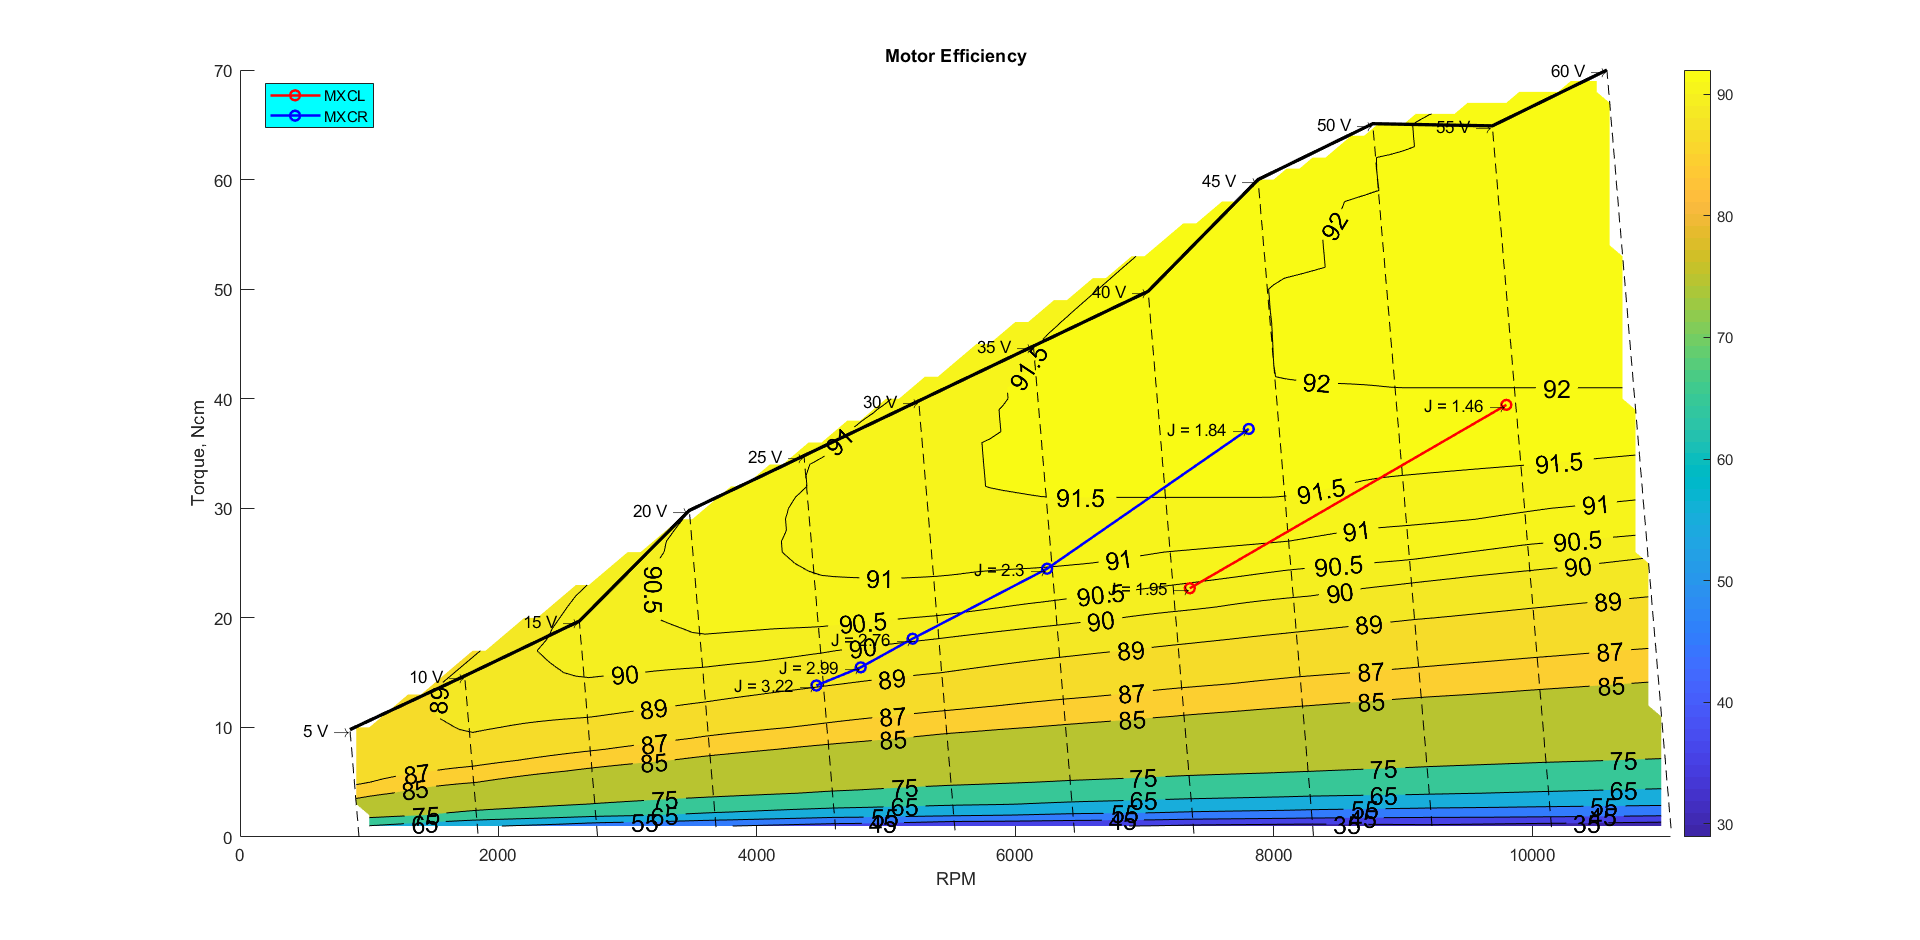
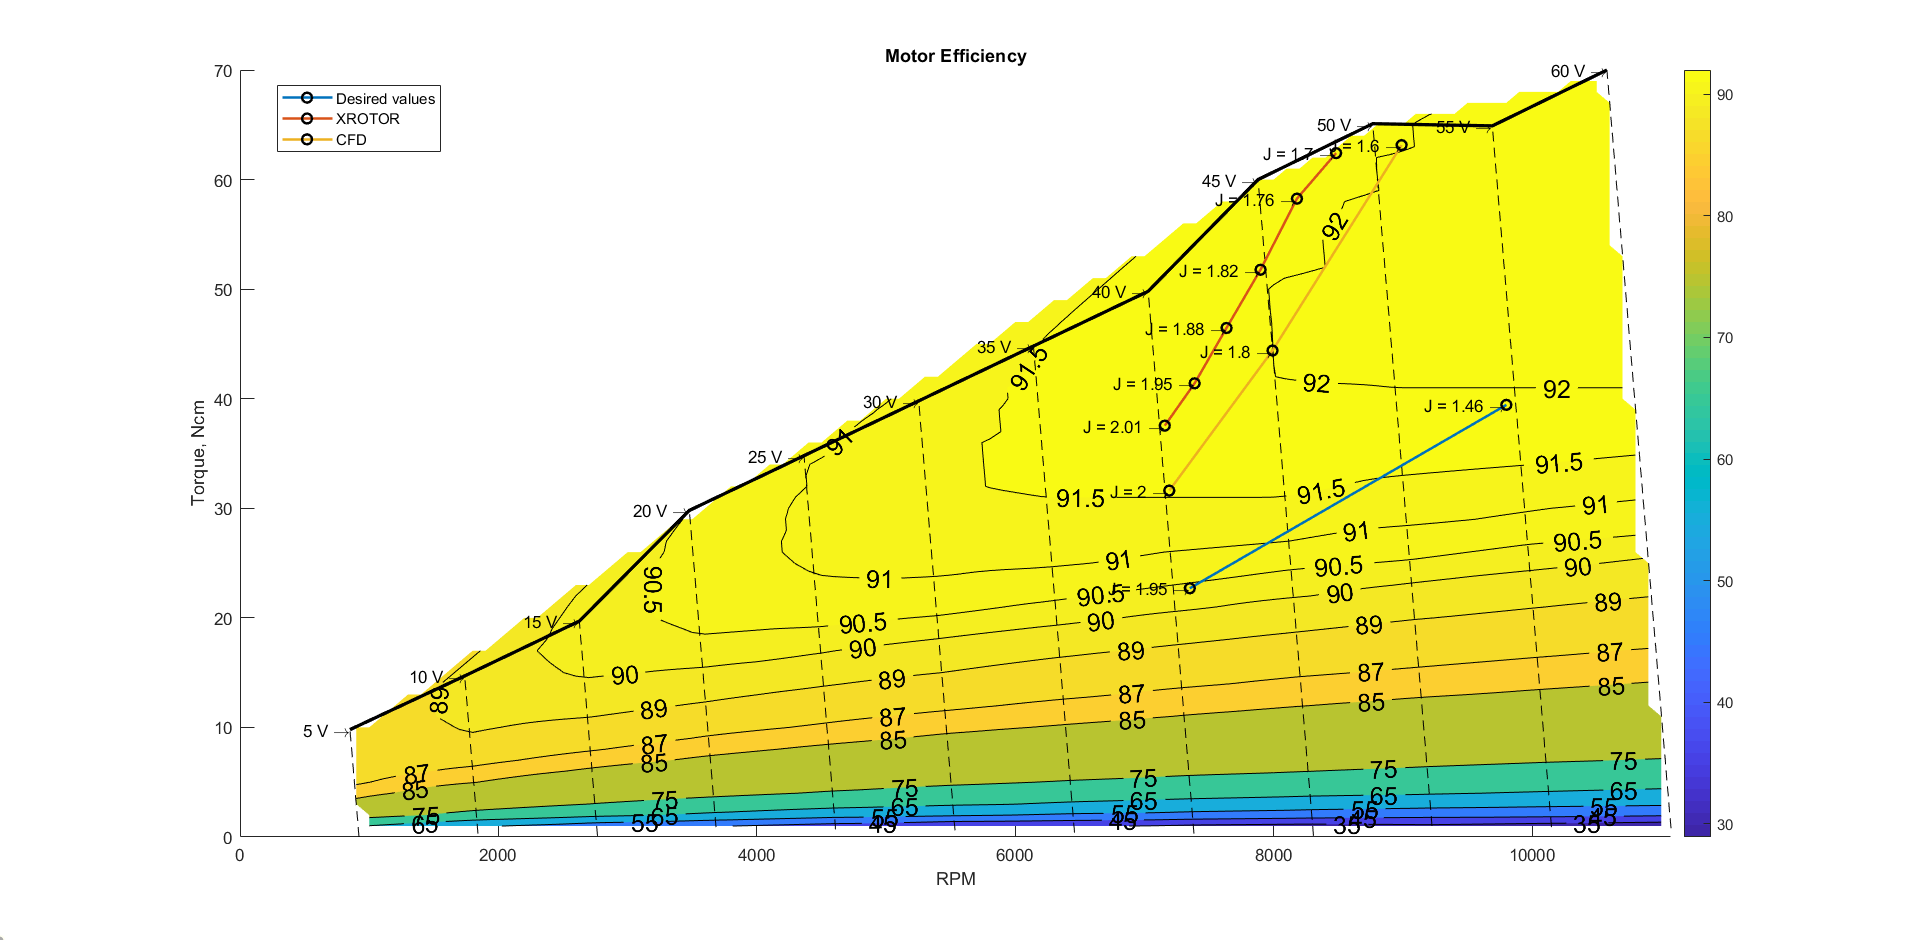
Generalized for any number of conditions

diff --git a/performanceCharts.m b/performanceCharts.m
@@ -1,18 +1,32 @@
 % Calculate the Lehner 2280-40 electric motor map from performance data
 % issued by the manufacturer. Plot propeller operating points on the map.
-% Version 4. Same as Version 3, but with more charts.
+% Version 5. Define and compare as many propeller operating conditions as
+% you want.
 close all; clearvars; clc
 
 %% User-provided data
-% Operative points: J, Shaft Power (W), RPM
-MXCL = [1.46    403   9801
-        1.95    174   7351];
+conditionLabels = {'Desired values','XROTOR','CFD'};
 
-MXCR = [1.84	300   7807
-        2.30	159   6246
-        2.76	96    5205
-        2.99	77    4804
-        3.22	63    4461];
+% Operative points: J, Shaft Power (W), RPM
+condition{1} = [1.46    403   9801
+                1.95    174   7351];
+
+condition{2} = [1.38	1329	10411
+                1.44	1116	9958
+                1.51	941     9543
+                1.57	798     9162
+                1.63	679     8809
+                1.70	580     8483
+                1.76	498     8180
+                1.82	428     7898
+                1.88	368     7635
+                1.95	318     7388
+                2.01	274     7157];
+
+condition{3} = [1.4     1013	10274
+                1.6     593     8990
+                1.8     367     7991
+                2       236     7192];
 
 %% Lehner performance data
 V1 = csvread('data\V5.csv');
@@ -29,8 +43,14 @@ V11 = csvread('data\V55.csv');
 V12 = csvread('data\V60.csv');
 
 scale = 1000; % Scale factor over RPM for better interpolation
-MXCL(:,3) = MXCL(:,3) ./ scale;
-MXCR(:,3) = MXCR(:,3) ./ scale;
+for i = 1:numel(condition)
+    % create a temporary variable to manipulate part of cell data
+    tempMat =  condition{i};
+    tempMat(:,3) = tempMat(:,3) ./ scale;
+    condition{i} = tempMat;
+end
+% MXCL(:,3) = MXCL(:,3) ./ scale;
+% MXCR(:,3) = MXCR(:,3) ./ scale;
 
 % Current	Input power     RPM     Momentum	Output power	Efficiency
 % A         W               /min	Ncm         W	            %
@@ -66,8 +86,14 @@ limEta = [V1(end,6); V2(end,6); V3(end,6); V4(end,6); V5(end,6); V6(end,6); V7(e
 za = griddata(r,c,s,xa,ya);
 
 % Interpolate data to caclculate current drawn at propeller operating points
-MXCL(:,4) = griddata(s,r,c,MXCL(:,2),MXCL(:,3));
-MXCR(:,4) = griddata(s,r,c,MXCR(:,2),MXCR(:,3));
+for i = 1:numel(condition)
+    % create a temporary variable to access cell data
+    tempMat =  condition{i};
+    tempMat(:,4) = griddata(s,r,c,tempMat(:,2),tempMat(:,3));
+    condition{i} = tempMat;
+end
+% MXCL(:,4) = griddata(s,r,c,MXCL(:,2),MXCL(:,3));
+% MXCR(:,4) = griddata(s,r,c,MXCR(:,2),MXCR(:,3));
 
 % Plot section
 figure
@@ -86,12 +112,20 @@ plot3(V10(:,3)./scale,V10(:,1),V10(:,5),'k--')
 plot3(V11(:,3)./scale,V11(:,1),V11(:,5),'k--')
 plot3(V12(:,3)./scale,V12(:,1),V12(:,5),'k--')
 plot3(limRPM,limCur,limPow,'k-','LineWidth',2)
-climb = plot3(MXCL(:,3),MXCL(:,4),MXCL(:,2)+20,'or-','LineWidth',1.5);
-cruise = plot3(MXCR(:,3),MXCR(:,4),MXCR(:,2)+20,'oy-','LineWidth',1.5);
-hold off, grid on, view(-20,30) 
+
+for i = 1:numel(condition)
+    % create a temporary variable to access part of cell data
+    tempMat =  condition{i};
+    conditionCurves{i} = plot3(tempMat(:,3),tempMat(:,4),tempMat(:,2)+20,...
+        'o-','LineWidth',1.5,'MarkerEdgeColor','black');
+end
+
+% climb = plot3(MXCL(:,3),MXCL(:,4),MXCL(:,2)+20,'or-','LineWidth',1.5);
+% cruise = plot3(MXCR(:,3),MXCR(:,4),MXCR(:,2)+20,'oy-','LineWidth',1.5);
+hold off, grid on, view(-20,30)
 xlabel('RPM'), ylabel('Current, A'), zlabel('Output power, W')
 colorbar
-legend([climb,cruise], 'MXCL', 'MXCR','Location','Best','Color','cyan')
+legend([conditionCurves{:}],conditionLabels,'Location','Best')
 
 % Annotations on surf
 text(V1(end,3)./scale,V1(end,1),V1(end,5),'5 V \rightarrow', 'HorizontalAlignment', 'right')
@@ -107,17 +141,22 @@ text(V10(end,3)./scale,V10(end,1),V10(end,5),'50 V \rightarrow', 'HorizontalAlig
 text(V11(end,3)./scale,V11(end,1),V11(end,5),'55 V \rightarrow', 'HorizontalAlignment', 'right')
 text(V12(end,3)./scale,V12(end,1),V12(end,5),'60 V \rightarrow', 'HorizontalAlignment', 'right')
 
-for i = 1:size(MXCL,1)
-    text(MXCL(i,3),MXCL(i,4),MXCL(i,2)+20,...
-        ['J = ',num2str(MXCL(i,1)), ' \rightarrow'], ...
-        'HorizontalAlignment','right')
+for i = 1:numel(condition)
+    tempMat =  condition{i};
+    
+    for j = 1:size(tempMat,1)
+        text(tempMat(j,3),tempMat(j,4),tempMat(j,2)+20,...
+            ['J = ',num2str(tempMat(j,1)), ' \rightarrow'], ...
+            'HorizontalAlignment','right')
+    end
+    
 end
 
-for i = 1:size(MXCR,1)
-    text(MXCR(i,3),MXCR(i,4),MXCR(i,2)+20,...
-        ['J = ',num2str(MXCR(i,1)), ' \rightarrow'], ...
-        'HorizontalAlignment','right')
-end
+% for i = 1:size(MXCR,1)
+%     text(MXCR(i,3),MXCR(i,4),MXCR(i,2)+20,...
+%         ['J = ',num2str(MXCR(i,1)), ' \rightarrow'], ...
+%         'HorizontalAlignment','right')
+% end
 
 % Scaling the RPM thick labels
 rpmLabel = xticklabels;
@@ -144,13 +183,21 @@ plot(V10(:,3)./scale,V10(:,1),'k--')
 plot(V11(:,3)./scale,V11(:,1),'k--')
 plot(V12(:,3)./scale,V12(:,1),'k--')
 plot(limRPM,limCur,'k-','LineWidth',2)
-climb = plot(MXCL(:,3),MXCL(:,4),'or-','LineWidth',1.5);
-cruise = plot(MXCR(:,3),MXCR(:,4),'oy-','LineWidth',1.5);
+
+for i = 1:numel(condition)
+    % create a temporary variable to access part of cell data
+    tempMat =  condition{i};
+    conditionCurves{i} = plot(tempMat(:,3),tempMat(:,4),...
+        'o-','LineWidth',1.5,'MarkerEdgeColor','black');
+end
+
+% climb = plot(MXCL(:,3),MXCL(:,4),'or-','LineWidth',1.5);
+% cruise = plot(MXCR(:,3),MXCR(:,4),'oy-','LineWidth',1.5);
 hold off
 clabel(C,H,'FontSize',15,'Color','white')
 xlabel('RPM'), ylabel('Current, A'), title('Output power contour, W')
 colorbar
-legend([climb,cruise], 'MXCL', 'MXCR','Location','Best','Color','cyan')
+legend([conditionCurves{:}],conditionLabels,'Location','Best')
 
 % Annotations on contour
 text(V1(end,3)./scale,V1(end,1),'5 V \rightarrow', 'HorizontalAlignment', 'right')
@@ -166,17 +213,22 @@ text(V10(end,3)./scale,V10(end,1),'50 V \rightarrow', 'HorizontalAlignment', 'ri
 text(V11(end,3)./scale,V11(end,1),'55 V \rightarrow', 'HorizontalAlignment', 'right')
 text(V12(end,3)./scale,V12(end,1),'60 V \rightarrow', 'HorizontalAlignment', 'right')
 
-for i = 1:size(MXCL,1)
-    text(MXCL(i,3),MXCL(i,4),...
-        ['J = ',num2str(MXCL(i,1)), ' \rightarrow'], ...
-        'HorizontalAlignment','right')
+for i = 1:numel(condition)
+    tempMat =  condition{i};
+    
+    for j = 1:size(tempMat,1)
+        text(tempMat(j,3),tempMat(j,4),...
+            ['J = ',num2str(tempMat(j,1)), ' \rightarrow'], ...
+            'HorizontalAlignment','right')
+    end
+    
 end
 
-for i = 1:size(MXCR,1)
-    text(MXCR(i,3),MXCR(i,4),...
-        ['J = ',num2str(MXCR(i,1)), ' \rightarrow'], ...
-        'HorizontalAlignment','right')
-end
+% for i = 1:size(MXCR,1)
+%     text(MXCR(i,3),MXCR(i,4),...
+%         ['J = ',num2str(MXCR(i,1)), ' \rightarrow'], ...
+%         'HorizontalAlignment','right')
+% end
 
 % Scaling the RPM thick labels
 rpmLabel = xticklabels;
@@ -187,12 +239,21 @@ end
 xticklabels(rpmLabel)
 
 %% Calculate TORQUE and motor EFFICIENCY from expected shaft power and RPM (propeller data)
-MXCL(:,5) = griddata(s,r,t,MXCL(:,2),MXCL(:,3));
-MXCR(:,5) = griddata(s,r,t,MXCR(:,2),MXCR(:,3));
-MXCL(:,6) = griddata(s,r,h,MXCL(:,2),MXCL(:,3));
-MXCR(:,6) = griddata(s,r,h,MXCR(:,2),MXCR(:,3));
 [xt, yt] = meshgrid((0:100:11000)./scale, 0:1:70);  % x: RPM, y: Ncm
 zt = griddata(r,t,h,xt,yt);
+
+for i = 1:numel(condition)
+    % create a temporary variable to access cell data
+    tempMat =  condition{i};
+    tempMat(:,5) = griddata(s,r,t,tempMat(:,2),tempMat(:,3));
+    tempMat(:,6) = griddata(s,r,h,tempMat(:,2),tempMat(:,3));
+    condition{i} = tempMat;
+end
+
+% MXCL(:,5) = griddata(s,r,t,MXCL(:,2),MXCL(:,3));
+% MXCR(:,5) = griddata(s,r,t,MXCR(:,2),MXCR(:,3));
+% MXCL(:,6) = griddata(s,r,h,MXCL(:,2),MXCL(:,3));
+% MXCR(:,6) = griddata(s,r,h,MXCR(:,2),MXCR(:,3));
 
 % Plot section
 figure
@@ -204,19 +265,27 @@ plot3(V3(:,3)./scale,V3(:,4),V3(:,6),'k--')
 plot3(V4(:,3)./scale,V4(:,4),V4(:,6),'k--')
 plot3(V5(:,3)./scale,V5(:,4),V5(:,6),'k--')
 plot3(V6(:,3)./scale,V6(:,4),V6(:,6),'k--')
-plot3(V7(:,3)./scale,V7(:,4),V7(:,6),'k--')   
+plot3(V7(:,3)./scale,V7(:,4),V7(:,6),'k--')
 plot3(V8(:,3)./scale,V8(:,4),V8(:,6),'k--')
 plot3(V9(:,3)./scale,V9(:,4),V9(:,6),'k--')
 plot3(V10(:,3)./scale,V10(:,4),V10(:,6),'k--')
 plot3(V11(:,3)./scale,V11(:,4),V11(:,6),'k--')
 plot3(V12(:,3)./scale,V12(:,4),V12(:,6),'k--')
 plot3(limRPM,limMom,limEta,'k-','LineWidth',2)
-climb = plot3(MXCL(:,3),MXCL(:,5),MXCL(:,6)+2,'or-','LineWidth',1.5);
-cruise = plot3(MXCR(:,3),MXCR(:,5),MXCR(:,6)+2,'ob-','LineWidth',1.5);
-hold off, grid on, view(-20,30) 
+
+for i = 1:numel(condition)
+    % create a temporary variable to access part of cell data
+    tempMat =  condition{i};
+    conditionCurves{i} = plot3(tempMat(:,3),tempMat(:,5),tempMat(:,6)+2,...
+        'o-','LineWidth',1.5,'MarkerEdgeColor','black');
+end
+
+% climb = plot3(MXCL(:,3),MXCL(:,5),MXCL(:,6)+2,'or-','LineWidth',1.5);
+% cruise = plot3(MXCR(:,3),MXCR(:,5),MXCR(:,6)+2,'ob-','LineWidth',1.5);
+hold off, grid on, view(-20,30)
 xlabel('RPM'), ylabel('Torque, Ncm'), zlabel('Motor Efficiency')
 colorbar
-legend([climb,cruise], 'MXCL', 'MXCR','Location','Best','Color','cyan')
+legend([conditionCurves{:}],conditionLabels,'Location','Best')
 
 % Annotations on surf
 text(V1(end,3)./scale,V1(end,4),V1(end,6),'5 V \rightarrow', 'HorizontalAlignment', 'right')
@@ -232,17 +301,22 @@ text(V10(end,3)./scale,V10(end,4),V10(end,6),'50 V \rightarrow', 'HorizontalAlig
 text(V11(end,3)./scale,V11(end,4),V11(end,6),'55 V \rightarrow', 'HorizontalAlignment', 'right')
 text(V12(end,3)./scale,V12(end,4),V12(end,6),'60 V \rightarrow', 'HorizontalAlignment', 'right')
 
-for i = 1:size(MXCL,1)
-    text(MXCL(i,3),MXCL(i,5),MXCL(i,6)+2,...
-        ['J = ',num2str(MXCL(i,1)), ' \rightarrow'], ...
-        'HorizontalAlignment','right')
+for i = 1:numel(condition)
+    tempMat =  condition{i};
+    
+    for j = 1:size(tempMat,1)
+        text(tempMat(j,3),tempMat(j,5),tempMat(j,6)+2,...
+            ['J = ',num2str(tempMat(j,1)), ' \rightarrow'], ...
+            'HorizontalAlignment','right')
+    end
+    
 end
 
-for i = 1:size(MXCR,1)
-    text(MXCR(i,3),MXCR(i,5),MXCR(i,6)+2,...
-        ['J = ',num2str(MXCR(i,1)), ' \rightarrow'], ...
-        'HorizontalAlignment','right')
-end
+% for i = 1:size(MXCR,1)
+%     text(MXCR(i,3),MXCR(i,5),MXCR(i,6)+2,...
+%         ['J = ',num2str(MXCR(i,1)), ' \rightarrow'], ...
+%         'HorizontalAlignment','right')
+% end
 
 % Scaling the RPM thick labels
 rpmLabel = xticklabels;
@@ -269,13 +343,21 @@ plot(V10(:,3)./scale,V10(:,4),'k--')
 plot(V11(:,3)./scale,V11(:,4),'k--')
 plot(V12(:,3)./scale,V12(:,4),'k--')
 plot(limRPM,limMom,'k-','LineWidth',2)
-climb = plot(MXCL(:,3),MXCL(:,5),'or-','LineWidth',1.5);
-cruise = plot(MXCR(:,3),MXCR(:,5),'ob-','LineWidth',1.5);
+
+for i = 1:numel(condition)
+    % create a temporary variable to access part of cell data
+    tempMat =  condition{i};
+    conditionCurves{i} = plot(tempMat(:,3),tempMat(:,5),...
+        'o-','LineWidth',1.5,'MarkerEdgeColor','black');
+end
+
+% climb = plot(MXCL(:,3),MXCL(:,5),'or-','LineWidth',1.5);
+% cruise = plot(MXCR(:,3),MXCR(:,5),'ob-','LineWidth',1.5);
 hold off
 clabel(C,H,'FontSize',15,'Color','black')
 xlabel('RPM'), ylabel('Torque, Ncm'), title('Motor Efficiency')
 colorbar
-legend([climb,cruise], 'MXCL', 'MXCR','Location','Best','Color','cyan')
+legend([conditionCurves{:}],conditionLabels,'Location','Best')
 
 % Annotations on contour
 text(V1(end,3)./scale,V1(end,4),'5 V \rightarrow', 'HorizontalAlignment', 'right')
@@ -291,17 +373,22 @@ text(V10(end,3)./scale,V10(end,4),'50 V \rightarrow', 'HorizontalAlignment', 'ri
 text(V11(end,3)./scale,V11(end,4),'55 V \rightarrow', 'HorizontalAlignment', 'right')
 text(V12(end,3)./scale,V12(end,4),'60 V \rightarrow', 'HorizontalAlignment', 'right')
 
-for i = 1:size(MXCL,1)
-    text(MXCL(i,3),MXCL(i,5),...
-        ['J = ',num2str(MXCL(i,1)), ' \rightarrow'], ...
-        'HorizontalAlignment','right')
+for i = 1:numel(condition)
+    tempMat =  condition{i};
+    
+    for j = 1:size(tempMat,1)
+        text(tempMat(j,3),tempMat(j,5),...
+            ['J = ',num2str(tempMat(j,1)), ' \rightarrow'], ...
+            'HorizontalAlignment','right')
+    end
+    
 end
 
-for i = 1:size(MXCR,1)
-    text(MXCR(i,3),MXCR(i,5),...
-        ['J = ',num2str(MXCR(i,1)), ' \rightarrow'], ...
-        'HorizontalAlignment','right')
-end
+% for i = 1:size(MXCR,1)
+%     text(MXCR(i,3),MXCR(i,5),...
+%         ['J = ',num2str(MXCR(i,1)), ' \rightarrow'], ...
+%         'HorizontalAlignment','right')
+% end
 
 % Scaling the RPM thick labels
 rpmLabel = xticklabels;
